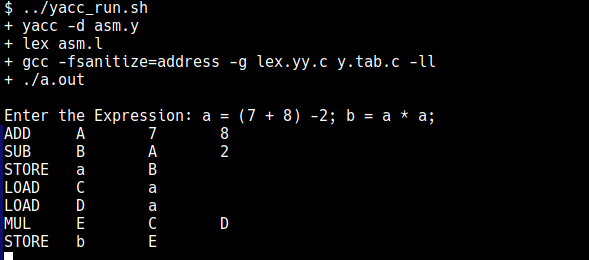
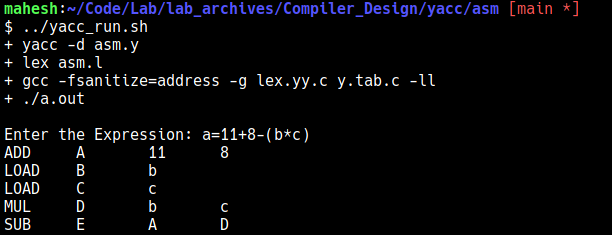
load one variable only once

diff --git a/Compiler_Design/yacc/asm/symbol.h b/Compiler_Design/yacc/asm/symbol.h
@@ -4,7 +4,6 @@ typedef struct _symbol {
 	int tag;
 	union {
 		long number;
-		char *name;
 		char ch;
 	} content;
 } Symbol;
